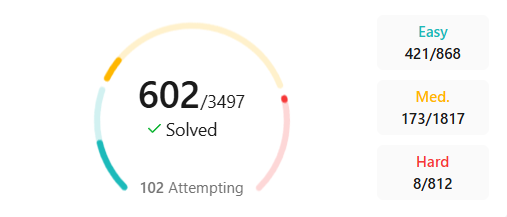
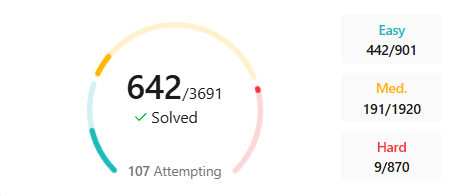
Adding leetcode badge details.

diff --git a/src/DsAlgoPage.js b/src/DsAlgoPage.js
@@ -1,7 +1,8 @@
 import React from "react";
- import LeetcodeBadges from './LeetcodeBadges.png';
+//import LeetcodeBadges from './LeetcodeBadges.png';
 import LeetcodeSubmissions from './LeetcodeSubmissions.png';
 import LeetcodeQuestions from './LeetcodeQuestions.png';
+import LeetcodeBadges from './LeetcodeBadgesNew.png'
 import HackerankBadges from './HackerrankBadges.png';
 import GFG from './gfgImageInfo.png';
 import GFGProblems from './gfgProblems.png';

diff --git a/src/App.css b/src/App.css
@@ -422,7 +422,7 @@ body {
   }
 }
 .leetcode-badges {
-  height: 15vh;
+  height: 21vh;
   border: 1px solid black;
   border-radius: 6px;
   margin-left: 7px;
